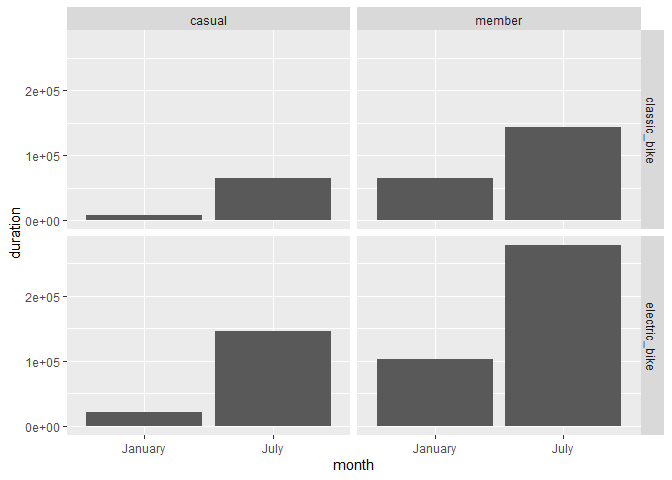
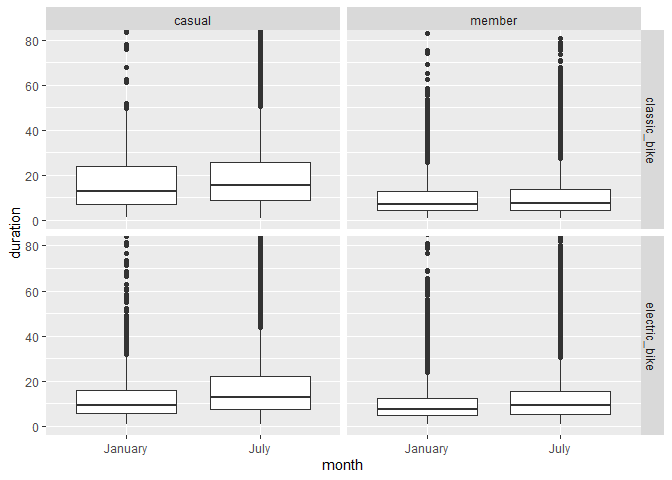
problem 3

diff --git a/p8105_hw3_mmb2355.md b/p8105_hw3_mmb2355.md
@@ -455,14 +455,14 @@ Saturday. The highest month and year median ride duration was in July
 duration value across month and year is about 17 seconds, and the lowest
 is 7.5 seconds.
 
-### There were relatively few electric Citi Bikes in 2020, but many more are available now. For data in 2024, make a figure that shows the impact of month, membership status, and bike type on the distribution of ride duration. Comment on your results
+### Figure: month vs. duration by membership status and bike type in 2024
 
 ``` r
 citi_df |> 
-  group_by(month, member_casual, rideable_type) |> 
   filter(year == "2024") |> 
   ggplot(aes(x = month, y = duration)) +
-  geom_col() +
+  geom_boxplot() +
+  coord_cartesian(ylim = c(0, 80)) +
   facet_grid(rideable_type ~ member_casual)
 ```
 
@@ -470,7 +470,6 @@ citi_df |>
 
 In July, there is a longer ride duration (seconds) on the bikes than in
 January. Overall, electric bikes have a higher ride duration than
-classic bikes. Citi Bike members have a longer ride duration in January
-and July, compared to casual bike riders. The highest ride duration
-combination are Citi Bike members who ride an electric bike in July, and
-the lowest is casual bikers who ride a classic bike in January.
+classic bikes, based off the median value. Citi Bike members have less
+variability in ride duration in January and July, compared to casual
+bike riders.
